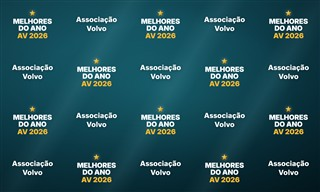
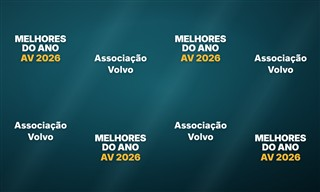
Arte 9 refeita (colunas alternadas, branco) + Artes 10 (tudo branco) e 11 (boxes 3D)

diff --git a/artes/banner-5x3-painel.html b/artes/banner-5x3-painel.html
@@ -1,8 +1,9 @@
 <!doctype html>
 <html lang="pt-BR"><head><meta charset="utf-8"><title>Banner 5 x 3 (painel intercalado) — Melhores do Ano AV 2026</title>
 <!-- Banner para impressão: proporção 5 x 3.
-     Painel de fotos (estilo "step and repeat"): intercala o selo "Melhores do Ano AV 2026"
-     e o logo Associação Volvo em duas linhas (Associação em cima, Volvo embaixo), tudo centralizado. -->
+     Painel de fotos: 4 colunas, cada uma com um "Melhores do Ano AV 2026" e um "Associação / Volvo",
+     colunas alternando um pouco mais para cima e mais para baixo. Tudo em branco.
+     Versões (no endereço): ?v=amarelo (AV 2026 em amarelo), ?v=branco (tudo branco), ?v=box (boxes 3D atrás). -->
 <link href="https://fonts.googleapis.com/css2?family=Inter:wght@800;900&display=swap" rel="stylesheet">
 <style>
   * { margin: 0; padding: 0; box-sizing: border-box; }
@@ -11,37 +12,56 @@
     background:
       radial-gradient(60% 60% at 50% 45%, rgba(40,150,165,.35), transparent 70%),
       linear-gradient(160deg, #1a6474 0%, #0e4351 40%, #08303b 72%, #041c24 100%); }
-  /* faixas de luz suaves em diagonal */
   .beam { position: absolute; top: -300px; width: 220px; height: 1900px; transform: rotate(32deg);
-    background: linear-gradient(90deg, transparent, rgba(160,235,245,.08), transparent); }
+    background: linear-gradient(90deg, transparent, rgba(160,235,245,.07), transparent); }
   .vignette { position: absolute; inset: 0; background: radial-gradient(ellipse at center, transparent 55%, rgba(2,14,18,.45)); }
-  /* grade intercalada: 5 colunas x 4 linhas */
-  .grid { position: absolute; inset: 0; display: grid; grid-template-columns: repeat(5, 400px); grid-template-rows: repeat(4, 300px); z-index: 2; }
-  .cell { display: flex; flex-direction: column; align-items: center; justify-content: center; text-align: center; }
-  /* selo Melhores do Ano */
-  .mda .st { width: 40px; height: 40px; margin-bottom: 10px; filter: drop-shadow(0 0 10px rgba(255,214,110,.7)); }
-  .mda b { display: block; font-family: 'Inter', Arial, sans-serif; font-weight: 900; text-transform: uppercase; font-size: 44px; line-height: .98; letter-spacing: -.01em; }
-  .mda b.av { color: #f2b632; margin-top: 4px; }
-  /* logo em duas linhas, recortado do logo oficial */
-  .av2 img { display: block; height: 42px; filter: drop-shadow(0 3px 10px rgba(0,0,0,.3)); }
-  .av2 img + img { margin-top: 14px; }
+
+  .item { position: absolute; width: 400px; height: 250px; margin: -125px 0 0 -200px; z-index: 2;
+    display: flex; flex-direction: column; align-items: center; justify-content: center; text-align: center; }
+  /* Melhores do Ano AV 2026 */
+  .mda b { display: block; font-family: 'Inter', Arial, sans-serif; font-weight: 900; text-transform: uppercase; font-size: 58px; line-height: .98; letter-spacing: -.01em;
+    text-shadow: 0 4px 16px rgba(0,0,0,.3); }
+  .mda b.av { margin-top: 6px; }
+  .amarelo .mda b.av { color: #f2b632; }
+  /* Associação / Volvo (recortado do logo oficial) */
+  .av2 img { display: block; height: 54px; filter: drop-shadow(0 3px 10px rgba(0,0,0,.3)); }
+  .av2 img + img { margin-top: 18px; }
+
+  /* versão com boxes 3D: placa com face em degradê, brilho na borda de cima e "espessura" para baixo e para a direita */
+  .box .item { border-radius: 20px;
+    background: linear-gradient(160deg, #1d7486 0%, #0f4b5a 55%, #0a3a46 100%);
+    box-shadow:
+      inset 0 2px 0 rgba(255,255,255,.35), inset 0 -2px 0 rgba(0,0,0,.25), inset 0 0 0 1px rgba(255,255,255,.08),
+      2px 3px 0 #08323c, 4px 6px 0 #07303a, 6px 9px 0 #062b34, 8px 12px 0 #05262e, 10px 15px 0 #042129, 12px 18px 0 #031c23,
+      24px 44px 50px rgba(0,0,0,.55); }
+  .box .item::before { content: ''; position: absolute; inset: 0; border-radius: 20px; pointer-events: none;
+    background: linear-gradient(170deg, rgba(255,255,255,.16) 0%, rgba(255,255,255,0) 45%); }
+  .box .item::after { content: ''; position: absolute; left: 30px; right: 30px; bottom: 0; height: 4px; border-radius: 2px;
+    background: linear-gradient(90deg, transparent, #f2b632, transparent); opacity: .8; }
 </style></head>
-<body><div class="art">
+<body><div class="art" id="art">
   <div class="beam" style="left:300px"></div><div class="beam" style="left:900px"></div><div class="beam" style="left:1500px"></div>
   <div class="vignette"></div>
-  <div class="grid" id="grid"></div>
 </div>
 <script>
+  const q = new URLSearchParams(location.search);
   // ?z=2 aumenta a arte (para gerar a imagem em alta resolução)
-  const z = parseFloat(new URLSearchParams(location.search).get('z'));
+  const z = parseFloat(q.get('z'));
   if (z) { document.documentElement.style.zoom = z; document.documentElement.style.overflow = 'hidden'; }
+  const v = q.get('v') || 'amarelo';
+  document.getElementById('art').classList.add(v);
 
-  const STAR = '<svg class="st" viewBox="0 0 100 100"><defs><linearGradient id="g" x1="0" y1="0" x2="1" y2="1"><stop offset="0" stop-color="#fff1c1"/><stop offset=".5" stop-color="#f2b632"/><stop offset="1" stop-color="#a8680f"/></linearGradient></defs>' +
-    '<path d="M50 4 61 37 96 38 68 59 78 93 50 73 22 93 32 59 4 38 39 37Z" fill="url(#g)"/></svg>';
-  const MDA = `<div class="cell mda">${STAR}<b>Melhores</b><b>do ano</b><b class="av">AV 2026</b></div>`;
-  const AV2 = `<div class="cell av2"><img src="logo-associacao.png" alt="Associação"><img src="logo-volvo.png" alt="Volvo"></div>`;
+  const MDA = '<b>Melhores</b><b>do ano</b><b class="av">AV 2026</b>';
+  const AV2 = '<img src="logo-associacao.png" alt="Associação"><img src="logo-volvo.png" alt="Volvo">';
+  // 4 colunas; cada coluna tem um de cada, e as colunas alternam: uma mais para cima, a outra mais para baixo
+  const cols = [250, 750, 1250, 1750];
   let h = '';
-  for (let r = 0; r < 4; r++) for (let c = 0; c < 5; c++) h += (r + c) % 2 === 0 ? MDA : AV2;
-  document.getElementById('grid').innerHTML = h;
+  cols.forEach((x, i) => {
+    const up = i % 2 === 0, y1 = up ? 300 : 400, y2 = y1 + 520;
+    const first = up ? ['mda', MDA] : ['av2', AV2], second = up ? ['av2', AV2] : ['mda', MDA];
+    h += `<div class="item ${first[0]}" style="left:${x}px;top:${y1}px">${first[1]}</div>`;
+    h += `<div class="item ${second[0]}" style="left:${x}px;top:${y2}px">${second[1]}</div>`;
+  });
+  document.getElementById('art').insertAdjacentHTML('beforeend', h);
 </script>
 </body></html>

diff --git a/artes/index.html b/artes/index.html
@@ -63,7 +63,9 @@
     ['arte-trofeu.png', 'Arte 16:9 — troféu e medalhas', 'Formato de tela (1920 x 1080)'],
     ['banner-5x3-rodape.png', 'Banner 5 x 3 — rodapé esportivo', 'Título, logo e estrela na mesma linha · rodapé com contornos de bolas em luz'],
     ['banner-5x3-emblema.png', 'Banner 5 x 3 — emblema dourado', 'Estrela e Melhores do Ano centralizados, estilo prêmio'],
-    ['banner-5x3-painel.png', 'Banner 5 x 3 — painel intercalado', 'Melhores do Ano AV 2026 intercalado com Associação / Volvo']
+    ['banner-5x3-painel.png', 'Banner 5 x 3 — painel intercalado (AV 2026 amarelo)', 'Colunas alternadas: Melhores do Ano e Associação / Volvo em branco'],
+    ['banner-5x3-painel-branco.png', 'Banner 5 x 3 — painel intercalado (tudo branco)', 'Colunas alternadas, AV 2026 também em branco'],
+    ['banner-5x3-painel-box.png', 'Banner 5 x 3 — painel com boxes 3D', 'Cada selo dentro de um box em 3D, letras brancas']
   ];
   const $ = id => document.getElementById(id);
   let cur = 0;
